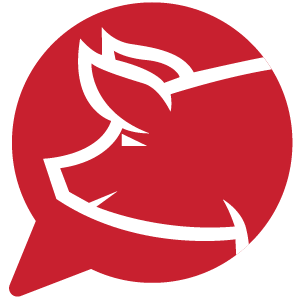
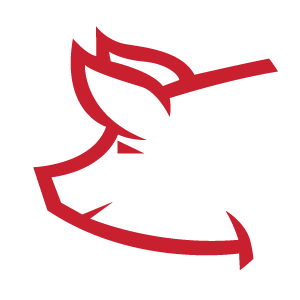
Updates to Porkbot

diff --git a/porkbot/css/porkbot.css b/porkbot/css/porkbot.css
@@ -1,3 +1,7 @@
+:root {
+  --lt-gray: #f5f5f5;
+}
+
 .porkbot-toggle,
 .porkbot-widget {
   color: #1f2933;
@@ -13,44 +17,44 @@
 
 .porkbot-toggle {
   position: fixed;
-  right: 24px;
-  bottom: 24px;
-  z-index: 2147483000;
+  right: 20px;
+  bottom: 20px;
+  z-index: 10000;
   display: grid;
-  width: 54px;
-  height: 54px;
-  padding: 5px;
-  border: 0;
+  width: 75px;
+  height: 75px;
+  border: 2px solid #c8102e;
   border-radius: 50%;
-  background: #c8102e;
-  box-shadow: 0 14px 30px rgb(0 0 0 / 24%);
+  background: #fff;
+  box-shadow: 0 4px 12px rgb(0 0 0 0.2);
   cursor: pointer;
   place-items: center;
 }
 
 .porkbot-toggle:focus-visible,
-.porkbot-close:focus-visible {
+.porkbot-close:focus-visible,
+.porkbot-disclaimer-toggle:focus-visible {
   outline: 3px solid #f1be48;
   outline-offset: 3px;
 }
 
 .porkbot-toggle img {
   display: block;
-  width: 44px;
-  height: 44px;
+  width: 75px;
+  height: 75px;
   object-fit: contain;
 }
 
 .porkbot-widget {
   position: fixed;
   right: 20px;
-  bottom: 96px;
+  bottom: 111px;
   z-index: 2147482999;
   display: flex;
   overflow: hidden;
-  width: min(380px, calc(100vw - 24px));
-  height: min(520px, calc(100vh - 120px));
-  height: min(520px, calc(100dvh - 120px));
+  width: min(750px, calc(100vw - 24px));
+  height: min(520px, calc(100vh - 135px));
+  height: min(520px, calc(100dvh - 135px));
   border: 0;
   border-radius: 12px;
   background: #ffffff;
@@ -67,37 +71,40 @@
   z-index: 2;
   display: flex;
   min-height: 0;
-  padding: 12px 44px;
+  padding: 8px 10px;
   color: #ffffff;
   background: #c8102e;
   align-items: center;
-  justify-content: center;
-  gap: 12px;
+  justify-content: space-between;
   font-weight: bold;
+}
+
+.porkbot-header > * {
+  min-height: 0;
 }
 
 .porkbot-title {
   display: flex;
   min-width: 0;
   align-items: center;
-  gap: 10px;
+  gap: 5px;
 }
 
 .porkbot-title img {
-  width: 34px;
-  height: 34px;
-  border-radius: 0;
-  object-fit: contain;
-  flex: 0 0 auto;
+  width: 50px;
+  height: 50px;
+  display: block;
+  flex-shrink: 0;
 }
 
 .porkbot-title h2 {
   overflow-wrap: anywhere;
   margin: 0;
-  font-size: 16px;
-  line-height: 1.2;
+  font-size: 1.35rem;
+  line-height: 1;
   letter-spacing: 0;
   color: #fff;
+  padding-bottom: 0;
 }
 
 .porkbot-title p {
@@ -119,7 +126,7 @@
   color: #ffffff;
   background: transparent;
   cursor: pointer;
-  font-size: 20px;
+  font-size: 24px;
   font-weight: 400;
   line-height: 1;
   transform: translateY(-50%);
@@ -130,18 +137,44 @@
 }
 
 .porkbot-disclaimer {
-  padding: 6px 10px;
   border-bottom: 1px solid #e6e6e6;
   color: #555555;
-  background: #fafafa;
-  font-size: 8px;
+  background: var(--lt-gray);
+  font-size: 0.7rem;
   line-height: 1.35;
+}
+
+.porkbot-disclaimer-toggle {
+  display: flex;
+  width: 100%;
+  padding: 6px 10px;
+  border: 0;
+  color: #c8102e;
+  background: transparent;
+  cursor: pointer;
+  font: inherit;
+  font-size: 0.9rem;
+  font-weight: 700;
+  text-align: left;
+}
+
+.porkbot-disclaimer-toggle:hover {
+  color: #9b0c23;
+}
+
+.porkbot-disclaimer-toggle:focus-visible {
+  outline-offset: -3px;
+}
+
+.porkbot-disclaimer-full {
+  padding: 0 10px 8px;
+  color: #000;
 }
 
 .porkbot-status {
   padding: 10px;
   color: #555555;
-  background: #fafafa;
+  background: var(--lt-gray);
   font-size: 12px;
   border-bottom: 1px solid #e6e6e6;
 }
@@ -210,10 +243,10 @@
 
   .porkbot-widget {
     right: 12px;
-    bottom: 92px;
+    bottom: 107px;
     width: calc(100vw - 24px);
-    height: min(520px, calc(100vh - 96px));
-    height: min(520px, calc(100dvh - 96px));
+    height: min(520px, calc(100vh - 111px));
+    height: min(520px, calc(100dvh - 111px));
   }
   .porkbot-webchat table {
     font-size: 12px;

diff --git a/porkbot/js/porkbot.js b/porkbot/js/porkbot.js
@@ -11,6 +11,9 @@
         var closeButton = document.getElementById('porkbot-close');
         var statusElement = document.getElementById('porkbot-status');
         var webChatElement = document.getElementById('porkbot-webchat');
+        var disclaimer = document.getElementById('porkbot-disclaimer');
+        var disclaimerToggle = document.getElementById('porkbot-disclaimer-toggle');
+        var disclaimerFull = document.getElementById('porkbot-disclaimer-full');
 
         var initialized = false;
         var loading = false;
@@ -199,7 +202,7 @@
                   avatarSize: 0,
                   botAvatarBackgroundColor: 'transparent',
                   userAvatarBackgroundColor: 'transparent',
-                  bubbleBackground: '#f6f4f0',
+                  bubbleBackground: '#f5f5f5',
                   bubbleBorderColor: '#e3ded4',
                   bubbleBorderRadius: 14,
                   bubbleFromUserBackground: '#c8102e',
@@ -239,6 +242,14 @@
 
         closeButton.addEventListener('click', function () {
           setWidgetOpen(false);
+        });
+
+        disclaimerToggle.addEventListener('click', function () {
+          var isExpanded = disclaimerToggle.getAttribute('aria-expanded') === 'true';
+
+          disclaimerToggle.setAttribute('aria-expanded', String(!isExpanded));
+          disclaimer.classList.toggle('is-collapsed', isExpanded);
+          disclaimerFull.hidden = isExpanded;
         });
 
         document.addEventListener('keydown', function (event) {
